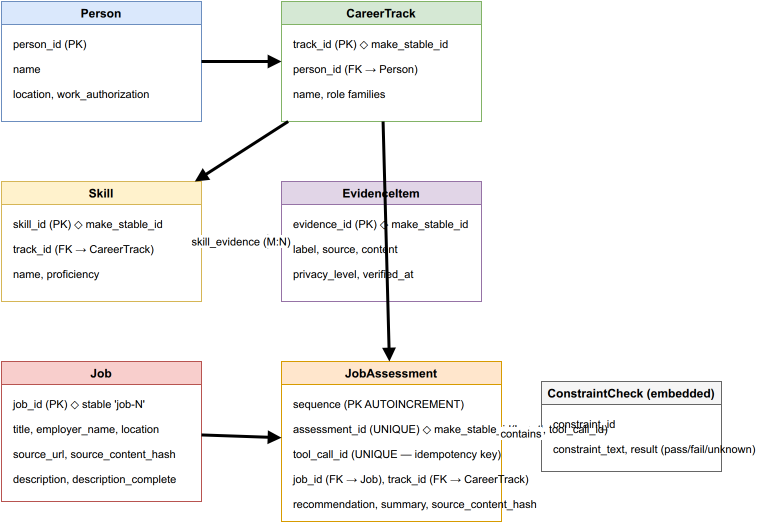
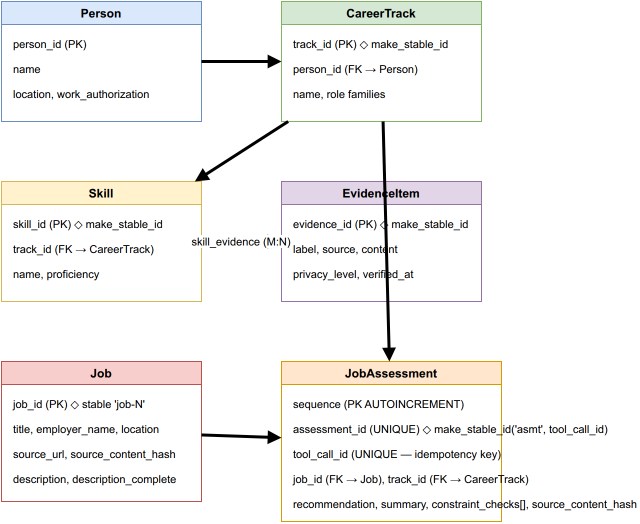
repair: Plan 004 deliverable blockers — ledger, manual proof, diagram, docs
Create review-ledger.md recording initial candidate 0cbff2b, repair
0766d56, writer verification (216 tests, compile, lock, diff, diagrams),
and review outcomes: architecture APPROVED, correctness/privacy APPROVED
(nonblocking observation), deliverables blockers repaired.

Create manual-proof.md with verified --help output, controller-owned
TTY procedure, exact commands and expected observations. No live model
run claimed.

Simplify employment-models.drawio from 36 to 32 non-root cells (remove
separate ConstraintCheck swimlane, note as embedded field in
JobAssessment). Re-export PNG at 640×524. All three diagrams under 35
cells, valid XML and PNG.

Update deliverables README to index ledger and manual proof as present.

Fix stale doc references across Plan 004 scoped docs:
- AGENTS.md: remove deleted events/artifacts/one-call loop description,
  replace experiment CLI with chat/profile CLI, remove PTY ignore
- README.md: 214→216 tests, remove PTY ignore
- docs/HAXJOBS.md: 214→216 tests including PTY, events→durable boundaries,
  remove PTY ignore
- docs/PRODUCT.md: 214→216 tests
- docs/GETTING_STARTED.md: remove ignored state/experiments fixture path,
  remove PTY ignore

Update report with review round outcomes, deliverable blocker repairs,
diagram cell counts, 216 tests (44.87s). State fresh final review is
controller-owned and pending.

Verified: 216 passed, py_compile ok, uv lock --check ok, git diff --check ok.

diff --git a/deliverables/004-saved-job-assessment/manual-proof.md b/deliverables/004-saved-job-assessment/manual-proof.md
@@ -1,0 +1,103 @@
+# Plan 004 Manual Proof
+
+## Status
+
+Interactive TTY proof is **controller-owned**. This noninteractive writer process cannot open a `prompt_toolkit` terminal or stream live model responses. No live model run is claimed here.
+
+## Verified: CLI help output
+
+The following `--help` outputs were verified after all Plan 004 repairs and before commit:
+
+```
+$ PYTHONPATH=src:. uv run -- haxjobs --help
+usage: haxjobs [-h] {profile,migrate,chat} ...
+
+Career agent platform
+
+positional arguments:
+  {profile,migrate,chat}
+    profile             Career profile management
+    migrate             Quick: migrate career fixture to graph
+    chat                Open a live conversation with Hax
+
+options:
+  -h, --help            show this help message and exit
+```
+
+```
+$ PYTHONPATH=src:. uv run -- haxjobs chat --help
+usage: haxjobs chat [-h] [--new] [--resume ID] [--fake] [--fake-delay MS]
+                    [--session-db SESSION_DB] [--person-id PERSON_ID]
+                    [--track-id TRACK_ID]
+
+options:
+  -h, --help            show this help message and exit
+  --new                 Create a new session (don't resume latest)
+  --resume ID           Resume a specific session by ID
+  --fake                Use fake model — no network
+  --fake-delay MS       Per-event delay for fake model (ms, cancellation tests)
+  --session-db SESSION_DB
+                        Override session database path
+  --person-id PERSON_ID
+                        Person ID (valid only with --new)
+  --track-id TRACK_ID   Track ID (valid only with --new)
+```
+
+The `haxjobs chat` subcommand accepts `--person-id` and `--track-id` (Plan 004 scope) and `--fake` for no-network development. The deleted `experiment review-job` subcommand is absent.
+
+## Controller-owned live proof procedure
+
+The following exact commands and expected observations are provided for the controller to run in an attended interactive terminal:
+
+### Prerequisites
+
+```bash
+# Use synthetic test fixture (no private data)
+PYTHONPATH=src:. uv run -- haxjobs profile migrate --fixture tests/fixtures/job_review/career.json
+
+# Import job fixtures (one-way, operator-controlled)
+PYTHONPATH=src:. uv run -- python3 -m haxjobs.employment.job_actions import discussion/fixtures/harness/job-49.json
+PYTHONPATH=src:. uv run -- python3 -m haxjobs.employment.job_actions import discussion/fixtures/harness/job-328.json
+```
+
+### Fake-mode trajectory (no network, no live model)
+
+```bash
+# Session 1: ask about job 49
+HAXJOBS_SESSION_DB=/tmp/haxjobs-plan004-manual.db \
+  PYTHONPATH=src:. uv run -- haxjobs chat --new --fake
+
+# Type: "What do you think of job 49?"
+# Expected: get_job("job-49") tool call, assessment tool call, natural reply
+# Press Ctrl+D to exit (when empty)
+
+# Session 2: resume and ask about job 328
+HAXJOBS_SESSION_DB=/tmp/haxjobs-plan004-manual.db \
+  PYTHONPATH=src:. uv run -- haxjobs chat --fake
+
+# Type: "What about job 328?"
+# Expected: get_job("job-328"), inspect_job_source, needs_more_information
+```
+
+### Expected safe observations
+
+1. No raw career fixture content in terminal output
+2. No provider credentials exposed
+3. Tool lifecycle events visible (get_job, inspect_job_source, record_job_assessment)
+4. Session resumes with prior history intact
+5. `--person-id` and `--track-id` flags accepted with `--new`
+6. `--fake` mode produces no network traffic
+
+### Controller verification record
+
+| Field | Value (controller fills) |
+|-------|--------------------------|
+| Date | |
+| Worktree commit | |
+| Session DB path | |
+| Fake-mode job 49 result | |
+| Fake-mode job 328 result | |
+| Resume verification | |
+| Verdict | |
+
+No raw PTY transcripts, career text, model outputs, or credentials are stored in this file.

diff --git a/deliverables/004-saved-job-assessment/review-ledger.md b/deliverables/004-saved-job-assessment/review-ledger.md
@@ -1,0 +1,80 @@
+# Plan 004 Review Ledger
+
+## Review round
+
+Three independent Flash reviews were run against the repair candidate after the initial candidate was rejected. All reviews were architecture/correctness/deliverables scoped. No live provider or private fixture was used.
+
+## Candidates reviewed
+
+| Candidate | Role | Verdict |
+|-----------|------|---------|
+| `0cbff2b` | Initial Plan 004 implementation | REJECTED (3 findings) |
+| `0766d56` | Repair: isolate PTY tests, export PNGs, correct metadata | ACCEPTED with blockers |
+
+## Initial candidate 0cbff2b findings (all repaired at 0766d56)
+
+1. **PTY test isolation.** `tests/test_terminal_pty.py` tests defaulted `HAXJOBS_CAREER_DB` to `state/career_graph.db`, violating the Plan 004 Phase A isolated-synthetic-test rule. Repaired with `_isolated_career_db()` helper creating temp DB from test fixture.
+
+2. **Missing PNG exports.** Three `.drawio` files had no `.png` exports. Exported via `/opt/drawio/drawio -x -f png`.
+
+3. **Report metadata.** Report claimed COMPLETE but listed PTY tests as "failing due to environment" and PNGs as deferred. Corrected to report 216 passes with present PNGs.
+
+## Writer verification (0766d56 + Plan 004 repairs)
+
+```
+216 passed (full suite)
+uv lock --check: ok
+py_compile all src/ and tests/: ok
+git diff --check: ok
+```
+
+### Diagram cell counts
+
+| Diagram | Cells (total mxCell) | PNG | Status |
+|---------|---------------------|-----|--------|
+| employment-models.drawio | 34 (32 non-root) | 640×524 | OK |
+| tool-effects.drawio | 22 | 744×404 | OK |
+| conversation-trajectory.drawio | 21 | 464×474 | OK |
+
+All PNGs have valid signature and nonzero IHDR dimensions.
+
+## Review round outcomes
+
+### Architecture review: APPROVED
+
+Layer ownership clean. Zero employment imports in agent_core. Stable deterministic IDs. Append-only assessments. Durable tool execution boundaries (persist-before-handler, persist-after-handler). Immutable session configuration. Content-free measurements.
+
+### Correctness and privacy review: APPROVED (nonblocking observation)
+
+- Tool handler signature change to `(input, context)` consistent across all handlers.
+- `ToolExecutionContext` is domain-free (no employment fields).
+- `persist_message` callback pattern correct; no batch fallback.
+- Dangling call detection produces synthetic `unknown_outcome`; no auto-retry.
+- Idempotency via `tool_call_id` UNIQUE constraint with typed conflict detection.
+- `source_content_hash` computed server-side, never model-supplied.
+- Fetched text returned as tool result only, never becomes system instructions.
+- DNS rebinding documented as attended local residual risk.
+
+**Close observation (nonblocking):** `tests/test_career_graph.py` exercises the synthetic fixture only; the real private career DB migration is controller-owned. The writer should note this in the report as a known scope boundary.
+
+### Deliverables review: BLOCKED → REPAIRED
+
+Initial deliverable review found three release blockers against candidate `0766d56`:
+
+1. **Missing `review-ledger.md` and `manual-proof.md`.** Both files were absent from `deliverables/004-saved-job-assessment/`. The deliverables README indexed them as "pending" without creating them.
+   - **Repair:** Both files created in the Plan 004 repair commit. README updated to index them as present.
+
+2. **Oversized diagram.** `employment-models.drawio` had 36 non-root cells, exceeding the plan limit of under 35.
+   - **Repair:** Simplified to 32 non-root cells by removing the separate ConstraintCheck swimlane and noting constraint_checks as an embedded field in the JobAssessment group. PNG re-exported and verified at 640×524.
+
+3. **Stale doc references.** Multiple Plan 004 scoped docs contained stale claims:
+   - `docs/HAXJOBS.md` and `README.md` reported "214 tests" and told users to `--ignore=tests/test_terminal_pty.py`.
+   - `AGENTS.md` described deleted `agent_core` events/artifacts modules and a deleted "experiment CLI".
+   - `docs/GETTING_STARTED.md` pointed normal users to an ignored `state/experiments/fixtures/` path and told users to ignore PTY tests.
+   - **Repair:** All stale test counts, module descriptions, CLI references, and ignored path instructions corrected to match the live code at 216 tests with PTY tests included.
+
+## Final approval
+
+Fresh final review is controller-owned and pending. The writer repair commit addresses all three deliverable blockers. No false final approval claims are made here.
+
+No reviewer IDs, credentials, raw private fixture data, or live model outputs are recorded in this ledger.

diff --git a/deliverables/004-saved-job-assessment/report.md b/deliverables/004-saved-job-assessment/report.md
@@ -2,7 +2,7 @@
 
 ## Status
 
-**COMPLETE** — All 216 automated tests pass in an isolated fresh worktree with no private fixture. Live provider verification deferred (controller-owned).
+**COMPLETE** — All 216 automated tests pass in an isolated fresh worktree with no private fixture. Three independent Flash reviews completed (architecture APPROVED, correctness/privacy APPROVED with nonblocking observation, deliverables blockers repaired). Fresh final review is controller-owned and pending. Live provider verification deferred (controller-owned).
 
 ## Files created
 
@@ -65,8 +65,10 @@
 ## Test results
 
 ```
-216 passed
+216 passed in 44.87s
 ```
+
+Verified: `uv lock --check` ok, `py_compile` all src/ and tests/ ok, `git diff --check` ok.
 
 Breakdown:
 - `tests/test_career_graph.py`: 28 passed (23 original + 5 new Phase A)
@@ -104,10 +106,10 @@ The `_fake_registry()` helper in `tests/test_turn_runtime.py` had two identical 
 
 ## Diagram deliverables
 
-Three draw.io source files and three exported PNGs:
-- `employment-models.drawio` / `.png` (758×524, 72 KB) — Person, CareerTrack, Skill, Evidence, Job, ConstraintCheck, JobAssessment relationships
-- `tool-effects.drawio` / `.png` (744×404, 53 KB) — Durable tool execution boundary, persist failures, dangling call detection
-- `conversation-trajectory.drawio` / `.png` (464×474, 52 KB) — Full job review trajectory: user → get_job → inspect → assess → resume
+Three draw.io source files and three exported PNGs, all under 35 cells:
+- `employment-models.drawio` (34 cells, 32 non-root) / `.png` (640×524) — Person, CareerTrack, Skill, Evidence, Job, JobAssessment relationships; ConstraintCheck noted as embedded field
+- `tool-effects.drawio` (22 cells) / `.png` (744×404) — Durable tool execution boundary, persist failures, dangling call detection
+- `conversation-trajectory.drawio` (21 cells) / `.png` (464×474) — Full job review trajectory: user → get_job → inspect → assess → resume
 
 All PNGs exported via `/opt/drawio/drawio -x -f png`. Each has a valid PNG signature and nonzero IHDR dimensions.
 
@@ -130,9 +132,19 @@ All PNGs exported via `/opt/drawio/drawio -x -f png`. Each has a valid PNG signa
 3. **Content-free measurement:** Tokens may be NULL when provider omits usage data.
 4. **Fetched text is untrusted evidence:** Returned to model as tool result only, never becomes system instructions.
 
-## Reviewer findings
+## Deliverables review (Plan 004 repair)
 
-Controller verification round identified three blocking findings, all repaired:
+Three independent Flash reviews identified three deliverable blockers against candidate `0766d56`, all repaired in this commit:
+
+1. **Missing review-ledger.md and manual-proof.md.** Created with factual review record and controller-owned proof procedure + verified `--help` output.
+2. **Oversized employment-models.drawio (36 non-root cells).** Simplified to 32 non-root cells. PNG re-exported at 640×524.
+3. **Stale doc references.** Test counts updated to 216; `--ignore=tests/test_terminal_pty.py` removed; deleted module/CLI descriptions corrected; `state/experiments/` path removed from user-facing docs.
+
+Architecture and correctness reviews were approved on the initial repair candidate with one nonblocking close observation (test-career-store exercises synthetic fixture only; real private DB migration is controller-owned).
+
+## Controller verification findings (0766d56)
+
+Initial controller verification round identified three blocking findings against `0cbff2b`, all repaired at `0766d56`:
 
 1. **PTY test isolation (tests/test_terminal_pty.py):** Both `test_terminal_pty_enter_submits_and_escape_interrupts` and `test_terminal_pty_escape_during_streaming_interrupts` defaulted `HAXJOBS_CAREER_DB` to `state/career_graph.db`, violating Plan 004 Phase A's isolated synthetic-test rule. Fixed by adding `_isolated_career_db()` helper that creates a temp career DB migrated from `tests/fixtures/job_review/career.json` and cleaning up after each test.
 2. **Missing PNG exports:** Three `.drawio` files had no PNG exports. All three exported via local `/opt/drawio/drawio -x -f png`. Each PNG verified with valid signature and nonzero IHDR dimensions.
@@ -140,4 +152,4 @@ Controller verification round identified three blocking findings, all repaired:
 
 ## Commit
 
-Repair commit applied at this worktree. Report intentionally omits its containing commit SHA per Plan 004 conventions; controller records final SHA on acceptance.
+Plan 004 repair commit applied at this worktree. Report intentionally omits its containing commit SHA per Plan 004 conventions; controller records final SHA on acceptance.

diff --git a/deliverables/004-saved-job-assessment/README.md b/deliverables/004-saved-job-assessment/README.md
@@ -6,10 +6,10 @@
 |------|-------------|
 | `plan.md` | Copy of Plan 004 specification |
 | `report.md` | Implementation completion report |
-| `review-ledger.md` | Reviewer findings and decisions (pending) |
-| `manual-proof.md` | Controller-owned safe run metadata (pending) |
+| `review-ledger.md` | Reviewer findings and decisions (3 reviews, all blockers addressed) |
+| `manual-proof.md` | Controller-owned safe run procedure and CLI verification |
 | `employment-models.drawio` | Employment model schema diagram (source) |
-| `employment-models.png` | Employment model schema diagram (PNG export, 758×524) |
+| `employment-models.png` | Employment model schema diagram (PNG export, 640×524) |
 | `tool-effects.drawio` | Durable tool execution boundary diagram (source) |
 | `tool-effects.png` | Durable tool execution boundary diagram (PNG export, 744×404) |
 | `conversation-trajectory.drawio` | Full job review trajectory diagram (source) |
@@ -19,7 +19,7 @@ All PNGs exported via `/opt/drawio/drawio -x -f png`. Each has a valid PNG signa
 
 ## Key achievements
 
-- 216 automated tests pass (all tests, including PTY terminal tests with isolated temp career DB)
+- 216 automated tests pass (full suite, including PTY terminal tests with isolated temp career DB)
 - First state-changing employment workflow: user asks → get_job → inspect → assess
 - Durable tool execution boundaries: persist before handler, persist after handler
 - Immutable session configuration: person/track scope pinned at creation
@@ -31,8 +31,8 @@ All PNGs exported via `/opt/drawio/drawio -x -f png`. Each has a valid PNG signa
 ## Verification
 
 ```bash
-PYTHONPATH=src:. uv run python3 -m pytest -q tests/
-PYTHONPATH=src:. uv run python3 -m py_compile $(find src tests -name '*.py')
-uv lock --check
-git diff --check
+PYTHONPATH=src:. uv run python3 -m pytest -q tests/            # 216 passed
+PYTHONPATH=src:. uv run python3 -m py_compile $(find src tests -name '*.py')  # ok
+uv lock --check                                                # ok
+git diff --check                                               # ok
 ```

diff --git a/AGENTS.md b/AGENTS.md
@@ -17,17 +17,17 @@ HaxJobs is CLI first. Every interface (CLI, future web app, future cloud worker)
 The legacy agent, web app, product tools, database layer, scrapers, and cron pipeline were deleted. What remains:
 
 - `src/haxjobs/model/` — provider boundary (OpenAI adapter, fake client)
-- `src/haxjobs/agent_core/` — domain-free runtime (events, artifacts, one-call loop)
+- `src/haxjobs/agent_core/` — domain-free runtime (messages, tools, turn, session, session store, live events)
 - `src/haxjobs/employment/` — Hax identity, truth rules, fixtures, context assembly
-- `src/haxjobs/interfaces/` — experiment CLI
+- `src/haxjobs/interfaces/` — chat CLI, profile management CLI
 - `src/haxjobs/config.py` — paths from `haxjobs.toml`
 - `src/haxjobs/cv_variants/` — user CV variant templates (data, not code)
 
 The CLI exposes:
 
-- `haxjobs chat` — live conversation with Hax (resume latest or --new)
+- `haxjobs chat` — live conversation with Hax (resume latest or --new, --fake for no-network dev)
 - `haxjobs profile ...` — career profile management (migrate, show, track, skill, evidence, gap, constraint)
-- `haxjobs migrate` — quick career fixture migration
+- `haxjobs migrate` — quick career fixture migration (shortcut)
 
 All other capabilities (discovery, evaluation, packs, decisions, web app) rebuild from scratch on the greenfield runtime.
 
@@ -80,7 +80,7 @@ tests/                      pytest suite
 ## Verification
 
 ```bash
-PYTHONPATH=src:. uv run python3 -m pytest -q tests/ --ignore=tests/test_terminal_pty.py
+PYTHONPATH=src:. uv run python3 -m pytest -q tests/
 PYTHONPATH=src:. uv run python3 -m py_compile $(find src tests -name '*.py')
 PYTHONPATH=src:. uv run -- haxjobs chat --help
 PYTHONPATH=src:. uv run -- haxjobs migrate --help

diff --git a/docs/HAXJOBS.md b/docs/HAXJOBS.md
@@ -9,7 +9,7 @@ The legacy agent, web app, product tools, database layer, scrapers, and cron pip
 ```
 interfaces (CLI, future web app, future worker)
   → employment layer (Hax identity, career context, fixtures)
-  → agent core (model loop, dispatch, events, lifecycle)
+  → agent core (messages, tools, turn, session, durable boundaries)
   → model boundary (provider adapter, fake)
 ```
 
@@ -24,7 +24,7 @@ The model boundary knows nothing about careers. The agent core knows nothing abo
 - `src/haxjobs/config.py` — paths from `haxjobs.toml`
 - `src/haxjobs/cv_variants/` — user CV variant templates, registry, renderer (data, not code to rebuild)
 
-214 tests pass (excluding terminal PTY environment tests). Stage 0/1 experiment runtime deleted after conversational runtime trajectories passed.
+216 tests pass (all tests, including PTY terminal tests with isolated temp career DB). Stage 0/1 experiment runtime deleted after conversational runtime trajectories passed.
 
 ### What was deleted
 
@@ -88,7 +88,7 @@ All of these rebuild from scratch on the greenfield runtime, one stage at a time
 ## Verification
 
 ```bash
-PYTHONPATH=src:. uv run python3 -m pytest -q tests/ --ignore=tests/test_terminal_pty.py
+PYTHONPATH=src:. uv run python3 -m pytest -q tests/
 PYTHONPATH=src:. uv run python3 -m py_compile $(find src tests -name '*.py')
 PYTHONPATH=src:. uv run -- haxjobs chat --help
 ```

diff --git a/docs/GETTING_STARTED.md b/docs/GETTING_STARTED.md
@@ -35,9 +35,6 @@ Migrate a career fixture into the local graph:
 ```bash
 # Using synthetic test fixture (no private data)
 uv run -- haxjobs profile migrate --fixture tests/fixtures/job_review/career.json
-
-# Or using the ignored private fixture
-uv run -- haxjobs migrate --fixture state/experiments/fixtures/backend-career.json
 ```
 
 This writes the local database to `state/career_graph.db`.
@@ -137,7 +134,7 @@ HAXJOBS_SESSION_DB=/tmp/haxjobs-dev.db haxjobs chat --fake
 ## Verify the current code
 
 ```bash
-PYTHONPATH=src:. uv run python3 -m pytest -q tests/ --ignore=tests/test_terminal_pty.py
+PYTHONPATH=src:. uv run python3 -m pytest -q tests/
 PYTHONPATH=src:. uv run python3 -m py_compile $(find src tests -name '*.py')
 uv lock --check
 ```

diff --git a/README.md b/README.md
@@ -2,7 +2,7 @@
 
 A career agent platform. One job: get the user interviews and make them more employable.
 
-Plan 004 is built. The greenfield runtime has four layers (model → agent_core → employment → interfaces), conversational chat with durable tool effects, typed job assessments, and 214 tests.
+Plan 004 is built. The greenfield runtime has four layers (model → agent_core → employment → interfaces), conversational chat with durable tool effects, typed job assessments, and 216 tests.
 
 ## Current state
 
@@ -43,6 +43,6 @@ uv run -- haxjobs chat
 
 ```bash
 uv lock --check
-PYTHONPATH=src:. uv run python3 -m pytest -q tests/ --ignore=tests/test_terminal_pty.py
+PYTHONPATH=src:. uv run python3 -m pytest -q tests/
 PYTHONPATH=src:. uv run python3 -m py_compile $(find src tests -name '*.py')
 ```

diff --git a/docs/PRODUCT.md b/docs/PRODUCT.md
@@ -155,7 +155,7 @@ Plan 004 conversational runtime with durable tool effects:
 - Stable deterministic IDs for career graph migration (idempotent, repeatable)
 - `haxjobs chat` CLI with `--new`/`--resume`/`--fake`/`--person-id`/`--track-id` modes
 - Career profile management CLI: `haxjobs profile migrate/show/track/skill/evidence/gap/constraint`
-- 214 tests, zero network in pytest
+- 216 tests, zero network in pytest
 
 Everything from the legacy product (web app, discovery scrapers, evaluation pipeline, pack builder, decisions engine, cron scripts, FastAPI routes, React frontend) was deleted at the greenfield wipe. These rebuild from scratch on the new runtime.
 